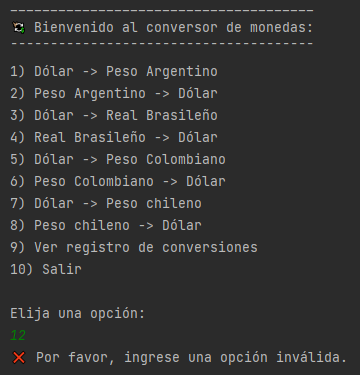
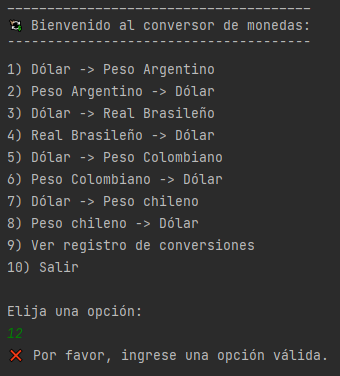
update: correción en mensaje del error

diff --git a/src/Main.java b/src/Main.java
@@ -73,7 +73,7 @@ public class Main {
                     continue;
                 }
                 default -> {
-                    System.out.println("❌ Por favor, ingrese una opción inválida.");
+                    System.out.println("❌ Por favor, ingrese una opción válida.");
                     continue;
                 }
             }
